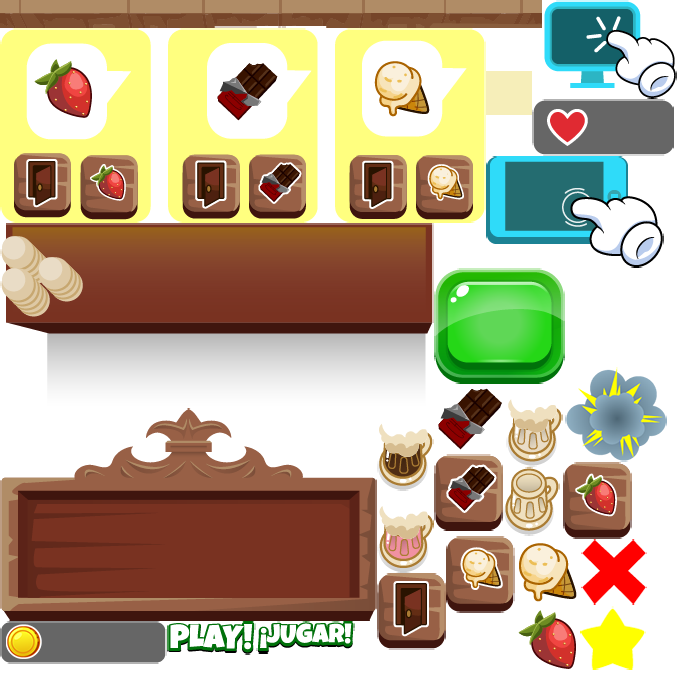
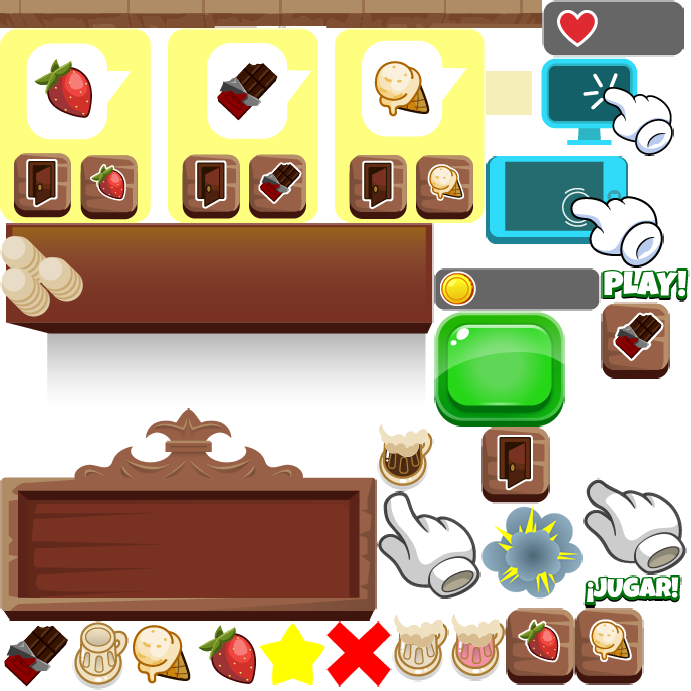
hand help added

diff --git a/nonrefactored/milkySaloon/milkySaloon/js/scenes/milky.js b/nonrefactored/milkySaloon/milkySaloon/js/scenes/milky.js
@@ -80,6 +80,8 @@ var milky = function(){
     var tweenTiempo
     var doorsOpen	
     var tweenStarted
+    var level
+    var handsGroup
 
 	function loadSounds(){
 		sound.decode(assets.sounds)
@@ -92,6 +94,7 @@ var milky = function(){
         doorsOpen = false
         delay = 5000
         tweenStarted = false
+        level = 0
         
         loadSounds()
         
@@ -653,13 +656,23 @@ var milky = function(){
         
         if(btn.flavor === 3){
             openDoors()
+            handPos(order)
         }
         else{
             sound.play("pop")
             buttonsGroup.setAll('inputEnabled', false)
-            tweenTiempo.pause()
+            buttonsGroup.setAll('tint', '0xaaaaaa')
             shakeMilk(btn)
+            
+            if(level !== 0)
+                tweenTiempo.pause()
         }
+        
+        changeImage(1, handsGroup)
+        game.time.events.add(150,function(){
+            changeImage(0, handsGroup)
+        },this)
+        
     }
     
     function shakeMilk(btn){
@@ -792,10 +805,16 @@ var milky = function(){
     function initGame(){
          
         buttonsGroup.setAll('inputEnabled', true)
+        buttonsGroup.setAll('tint', '0xffffff')
         
         mugsGroup.x = game.world.centerX 
         mugsGroup.y = game.world.centerY + 100
         changeImage(3, mugsGroup)
+        
+        if(level === 0)
+            changeImage(0, handsGroup)
+        else
+            handsGroup.destroy()
         
         game.add.tween(mugsGroup.scale).to({x:1.3 , y:1.3}, 200, Phaser.Easing.linear, true).onComplete.add(function() 
         {
@@ -812,7 +831,7 @@ var milky = function(){
                 tweenStarted = true
             }
             
-            if(lives > 0){
+            if(lives > 0 && level !== 0){
                 game.time.events.add(300,function(){
                     startTimer(delay)
                 },this)
@@ -907,7 +926,10 @@ var milky = function(){
                 if(ans !== -1)
                     delay -= 100
                 
-                stopTimer()
+                if(level !== 0)
+                    stopTimer()
+                
+                level = 1
                 initGame()
             })
         })
@@ -919,6 +941,50 @@ var milky = function(){
         
         particleWrong = createPart('wrong')
         sceneGroup.add(particleWrong)
+    }
+    
+    function initHand(){
+        
+        handsGroup = game.add.group()
+        handsGroup.x = buttonsGroup.x + 160
+        handsGroup.y = buttonsGroup.y + 60
+        handsGroup.scale.setTo(0.8)
+        sceneGroup.add(handsGroup)
+        
+        var handUp = handsGroup.create(0, 0, 'atlas.milky', 'handUp') // 0
+        handUp.anchor.setTo(0.5, 0.5)
+        handUp.alpha = 0
+        
+        var handDown = handsGroup.create(0, 0, 'atlas.milky', 'handDown') // 1
+        handDown.anchor.setTo(0.5, 0.5)
+        handDown.alpha = 0
+        
+        handsGroup.tween = game.add.tween(handsGroup).to({y:handsGroup.y + 10}, 1000, Phaser.Easing.linear, true)
+        
+        handsGroup.tween.onComplete.add(function() 
+        {
+            game.add.tween(handsGroup).to({y:handsGroup.y - 10}, 1000, Phaser.Easing.linear, true).onComplete.add(function(){
+                handsGroup.tween.start()
+            })
+        })
+    }
+    
+    function handPos(ans){
+        
+        switch(ans){
+            case 0:
+                handsGroup.x -= 230
+            break
+            case 1:
+                handsGroup.x -= 150
+            break
+            case 2:
+                handsGroup.x -= 70
+            break
+            case 3:
+                handsGroup.x = handsGroup.x
+            break
+        }
     }
     
 	return {
@@ -954,6 +1020,7 @@ var milky = function(){
             positionTimer()
             initMagician()
             btnBoard()
+            initHand()
             initOrders()
             initMug()
             createParticles()
